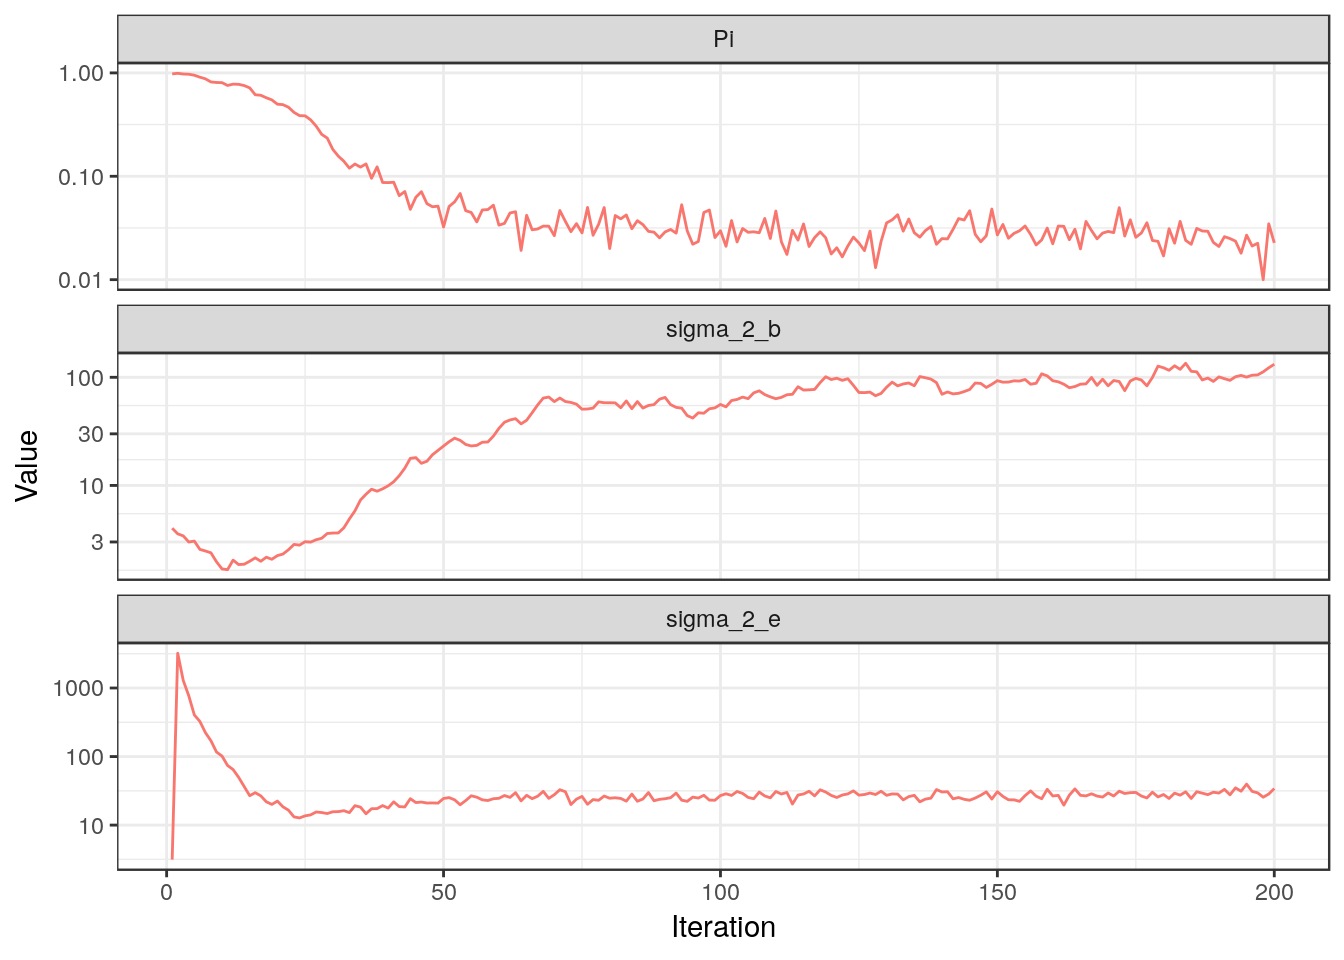
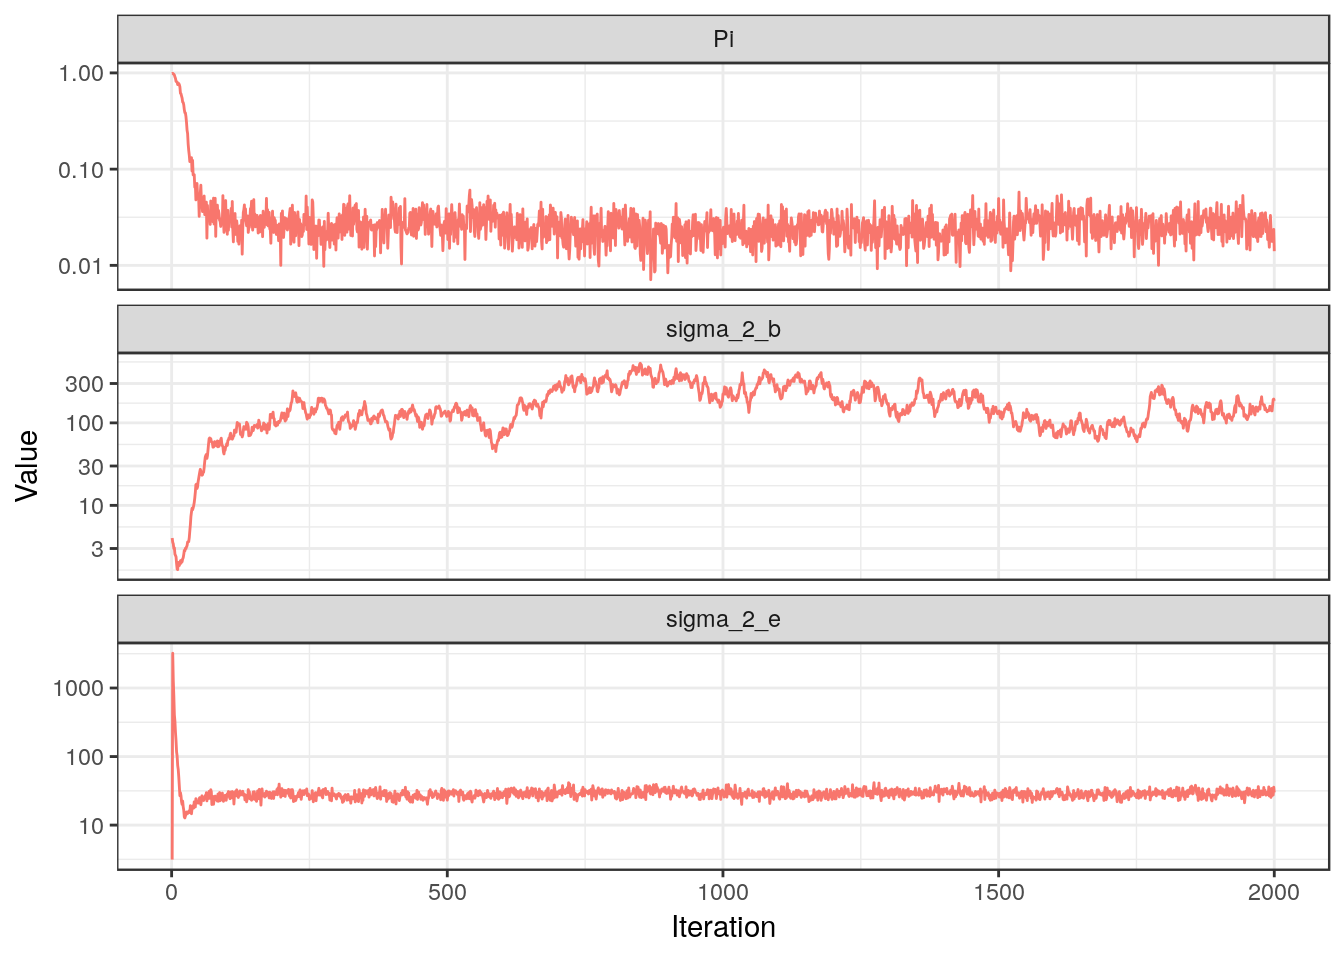
Fix previous post

diff --git a/2019/01/06/new-member-in-sbglm-sparse-linear-regression/index.html b/2019/01/06/new-member-in-sbglm-sparse-linear-regression/index.html
@@ -309,7 +309,7 @@ image(M, axes=FALSE, asp = 1, useRaster = TRUE)</code></pre>
 <p>Now we are ready to run the Gibbs sampler on this data:</p>
 <pre class="r"><code>library(SBGLM)
 
-S=200L
+S=2000L
 results = sblm_gibbs(
   X       = dta$X,
   y       = dta$y,
@@ -318,7 +318,16 @@ results = sblm_gibbs(
 )</code></pre>
 <pre><code>## Chain initialized. Beginning iterations!
 ## 
-## Iteration 200: |A| = 11, sigma_2_e = 28.42, sigma_2_b = 122.48</code></pre>
+## Iteration 200: |A| = 11, sigma_2_e = 28.42, sigma_2_b = 122.48
+## Iteration 400: |A| = 14, sigma_2_e = 25.95, sigma_2_b = 65.07
+## Iteration 600: |A| = 12, sigma_2_e = 28.80, sigma_2_b = 67.35
+## Iteration 800: |A| = 10, sigma_2_e = 30.75, sigma_2_b = 250.25
+## Iteration 1000: |A| = 10, sigma_2_e = 32.57, sigma_2_b = 182.99
+## Iteration 1200: |A| = 12, sigma_2_e = 29.33, sigma_2_b = 203.41
+## Iteration 1400: |A| = 9, sigma_2_e = 27.43, sigma_2_b = 215.18
+## Iteration 1600: |A| = 11, sigma_2_e = 30.91, sigma_2_b = 81.36
+## Iteration 1800: |A| = 12, sigma_2_e = 28.91, sigma_2_b = 220.84
+## Iteration 2000: |A| = 11, sigma_2_e = 35.74, sigma_2_b = 194.41</code></pre>
 <p>Great! Let us plot the traces for <code>$\pi$</code> and the variances to check that everything is running as it should:</p>
 <pre class="r"><code>suppressPackageStartupMessages(library(dplyr))
 library(tidyr)
@@ -369,8 +378,8 @@ t(trace_beta * trace_z) %&gt;%
   theme_bw()</code></pre>
 <p><img src="/post/2019-01-06-new-sblm-in-sbglm_files/figure-html/unnamed-chunk-6-1.png" width="672" /></p>
 <p>Note how the sum total of the 9 components quickly approaches the expected value of 9 <code>$\times$</code> 3 <code>$=$</code> 27 (highlighted with the dashed line in the plot), and then stays very close to it. However, there is a sort of non-stationary dynamic in which the model never actually settles on any particular combination of the components. This is, of course, expected, given the extremely high correlation that the covariates within the group have. In other words, the sampler has a very good idea about where the total contribution of the group is, but it has a hard time inferring how to allocate this effect among the components, given the little data there is. In turn, because one coefficient gets assigned the effect of many others, the magnitudes of the components of <code>$\beta$</code> varies considerably, and this “confusion” propagates back to <code>$\sigma_b^2$</code> which explains its behavior.</p>
-<p>The above phenomenon should not be unexpected, given the high within-group correlation and the fact that<code>$N \ll P$</code>. Even though the predictions of the model won’t be affected (the fact that <code>$\sigma_e^2$</code> is correctly recovered is evidence of this), one should always be cautious when interpreting the contributions of each variable to the response variable, given that the effects of highly correlated variables cannot be disentangled easily, especially with few data.</p>
-<p>To finish this analysis, let us plot the posterior probability of each covariate being included in the model:</p>
+<p>The above phenomenon should not be unexpected, given the high within-group correlation and the fact that <code>$N \ll P$</code>. Even though the predictions of the model won’t be affected (the fact that <code>$\sigma_e^2$</code> is correctly recovered is evidence of this), one should always be cautious when interpreting the contributions of each variable to the response variable, given that the effects of highly correlated variables cannot be disentangled easily, especially with few data.</p>
+<p>To finish this analysis, let us plot the posterior probability of each covariate being included in the model. The vertical line shows the limit for the active set:</p>
 <pre class="r"><code>sapply(results[seq.int(S%/%2L+1L, S, 1L)], function(l){
   z=logical(P)
   z[l$A]=TRUE
@@ -386,7 +395,7 @@ t(trace_beta * trace_z) %&gt;%
   theme_bw() +
   labs(y = &quot;Posterior probability of inclusion&quot;)</code></pre>
 <p><img src="/post/2019-01-06-new-sblm-in-sbglm_files/figure-html/unnamed-chunk-7-1.png" width="672" /></p>
-<p>Here the same issue arises again: given the symmetries present in the data, we would expect a uniform probability of inclusion of the first 45 variables (active set), and then close to 0 probability for the rest. Even though the latter assumption holds, the former does not. Instead, we see a non-uniform probability of inclusion among the true relevant covariates, which is consistent with what the previous plots showed.</p>
+<p>Given the symmetries present in the data, we would expect a uniform probability of inclusion of the first 45 variables (active set), and then close to 0 probability for the rest. The latter assumption holds almost perfectly, except for one variable at the end with a quite high probability of inclusion. On the other hand, we see a non-uniform probability of inclusion among the true relevant covariates, which is consistent with the problems previously described.</p>
 </div>
 <div id="conclusions" class="section level2">
 <h2>Conclusions</h2>
